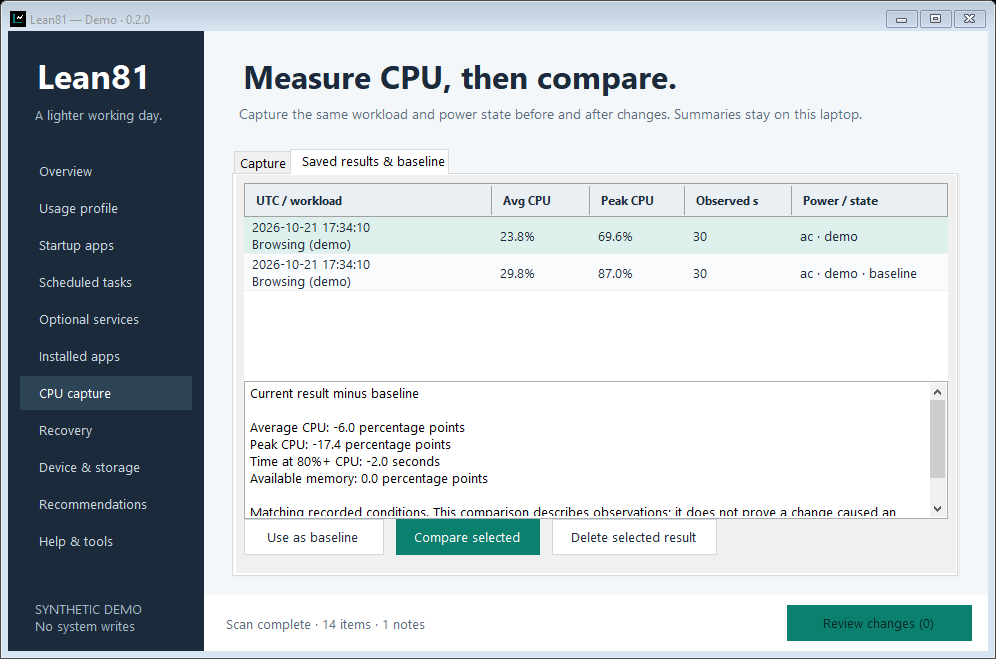
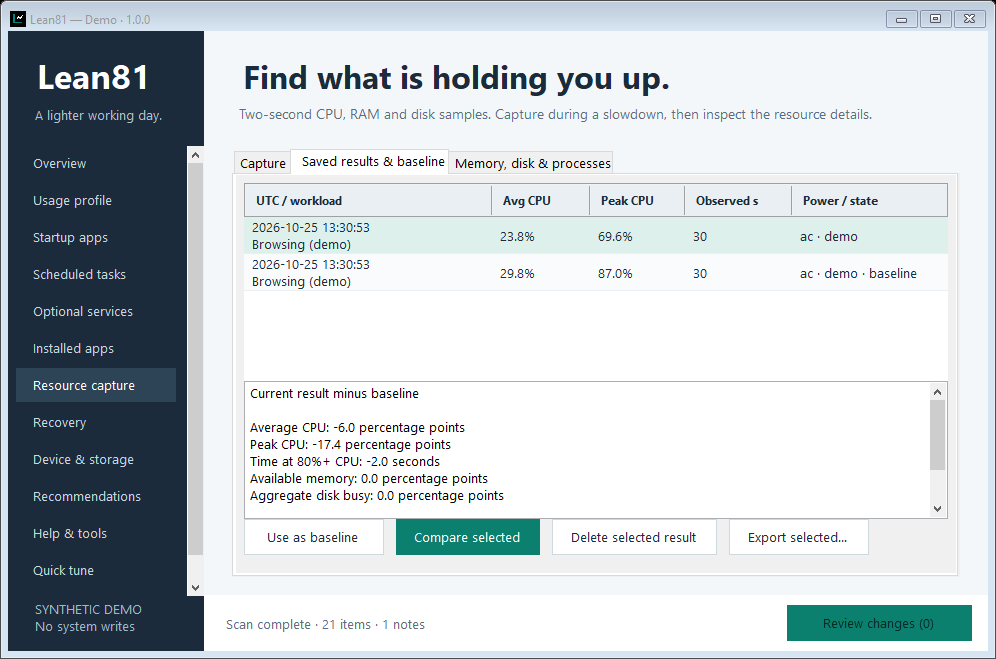
Verify x86 resource capture, preserve native counter units and refresh reviewed screenshots

diff --git a/tests/Tests.cs b/tests/Tests.cs
@@ -143,7 +143,7 @@ static partial class Tests
             Test("native journal ACL and validated listing", () => Assert(journals.List().Count >= 2));
             Test("native journal traversal rejected", () => Throws(() => journals.Load("..\\x")));
             Test("native recovery listing isolates other user scopes", () => Assert(new JournalStore(Product.Hash("different user scope")).List().Count == 0));
-            Test("native CPU capture has real bounded samples", () => { var r = CpuCapture.Run(4, CancellationToken.None, null); Assert(!r.Synthetic && r.Error == null && r.Samples.Count >= 2 && r.LogicalCpus > 0); Assert(r.Samples.All(s => Convert.ToDouble(s.metrics["cpu_pct"]) >= 0 && Convert.ToDouble(s.metrics["cpu_pct"]) <= 100 && s.processes.Count <= 20)); Assert(r.Samples.All(s => ResourceAnalysis.Number(s.metrics, "commit_pct", 100).HasValue && ResourceAnalysis.Number(s.metrics, "kernel_nonpaged_bytes").HasValue && s.metrics.ContainsKey("disk_busy_pct"))); Assert(r.Samples.SelectMany(s => s.processes).Any(p => p.private_bytes.HasValue && p.io_bytes_per_sec.HasValue)); });
+            Test("native CPU capture has real bounded samples", () => { var r = CpuCapture.Run(4, CancellationToken.None, null); Assert(!r.Synthetic && r.Error == null && r.Samples.Count >= 2 && r.LogicalCpus > 0); Assert(r.Samples.All(s => Convert.ToDouble(s.metrics["cpu_pct"]) >= 0 && Convert.ToDouble(s.metrics["cpu_pct"]) <= 100 && s.processes.Count <= 20)); Assert(r.Samples.All(s => ResourceAnalysis.Number(s.metrics, "commit_pct", 100).HasValue && ResourceAnalysis.Number(s.metrics, "kernel_nonpaged_bytes").HasValue && s.metrics.ContainsKey("disk_busy_pct"))); Assert(r.Samples.SelectMany(s => s.processes).Any(p => p.private_bytes.HasValue && p.io_bytes_per_sec.HasValue)); Assert(r.Samples.Any(s => ResourceAnalysis.Number(s.metrics, "disk_busy_pct", 100).HasValue), "Expected installed PhysicalDisk counters on the Windows CI image"); });
             Test("native desktop settings are inspection only during fixtures", () => { foreach (var option in DesktopSettings.Options) { var s = b.Read(new ItemState { Kind = "setting", Scope = "user", Target = option.Id }); Assert(s.Kind == "setting" && s.Scope == "user" && s.Target == option.Id); } });
             Test("native device snapshot reads memory, uptime and fixed-drive capacity", () => { var d = DeviceSnapshot.Read(); Assert(d.TotalMemory > 0 && d.AvailableMemory <= d.TotalMemory && d.LogicalCpus > 0 && d.UptimeMilliseconds > 0 && d.Disks.Count > 0 && d.Disks.All(x => x.FreeBytes <= x.TotalBytes)); });
             Test("native optional-service inventory is protected by default", () => { var report = b.Scan(new UsageProfile()); Assert(report.Items.Any(x => x.Kind == "service"), "expected at least one installed optional service on the Windows runner"); Assert(report.Items.Where(x => x.Kind == "service").All(x => !x.CanChange && x.Before.Definition.Length == 64)); });
@@ -160,7 +160,8 @@ static partial class Tests
     }
     [STAThread] static int Main(string[] args)
     {
-        MainCore(); FeatureTests(); ResourceTests(); if (args.Contains("--native")) Test("Windows native fixture suite", Native);
+        if (args.Contains("--resource-probe")) Test("x86 native resource layout and bounded capture", NativeResourceProbe);
+        else { MainCore(); FeatureTests(); ResourceTests(); if (args.Contains("--native")) Test("Windows native fixture suite", Native); }
         Console.WriteLine(passed + " passed, " + failed + " failed"); return failed == 0 ? 0 : 1;
     }
 }

diff --git a/src/Lean81/Program.cs b/src/Lean81/Program.cs
@@ -46,7 +46,7 @@ namespace Lean81
                                 if (page < count) { form.SmokePage(page); form.Refresh(); form.ValidateSmokeLayout(); form.SaveScreenshot(Path.Combine(output, "page-" + page + ".png")); page++; }
                                 else if (page < count * 2) { form.ClientSize = new System.Drawing.Size(980, 620); form.SmokePage(page - count); form.Refresh(); form.ValidateSmokeLayout(); form.SaveScreenshot(Path.Combine(output, "small-" + (page - count) + ".png")); page++; }
                                 else if (page == count * 2) { timer.Stop(); form.SmokeReviewScreenshot(Path.Combine(output, "review-dialog.png")); form.SmokeSetupScreenshot(Path.Combine(output, "quick-setup.png")); form.SmokeComparisonScreenshot(Path.Combine(output, "comparison.png")); form.SmokeResourcesScreenshot(Path.Combine(output, "resources.png")); form.SmokeReport(output); form.SmokeInteractions(); form.SmokeTuningInteractions(); page++; timer.Start(); }
-                                else { timer.Stop(); File.WriteAllText(Path.Combine(output, "gui-smoke.txt"), "PASS: " + count + " pages at two sizes, cancelled review/setup/report dialogs, saved-result comparison, generated report variants, checkbox/filter/protection interactions and demo tool launches."); form.Close(); }
+                                else { timer.Stop(); File.WriteAllText(Path.Combine(output, "gui-smoke.txt"), "PASS: " + count + " pages at two sizes, cancelled review/setup/report dialogs, saved-result comparison, generated report variants, checkbox/filter/protection interactions, quick-tune preset isolation, desktop selection, resource sorting, missing-data chart rendering and demo tool launches."); form.Close(); }
                             }
                             catch (Exception ex) { smokeError = ex; timer.Stop(); form.Close(); }
                         };

diff --git a/tests/ResourceTests.cs b/tests/ResourceTests.cs
@@ -6,6 +6,16 @@ using Lean81;
 
 static partial class Tests
 {
+    static void NativeResourceProbe()
+    {
+        Assert(Environment.GetEnvironmentVariable("LEAN81_NATIVE_FIXTURES") == "ephemeral-ci" && Environment.OSVersion.Platform == PlatformID.Win32NT && IntPtr.Size == 4, "resource ABI probe requires explicitly opted-in x86 Windows CI");
+        var capture = CpuCapture.Run(4, System.Threading.CancellationToken.None, null);
+        Assert(capture.Error == null && capture.Samples.Count >= 2 && capture.MemoryBytes > 0);
+        Assert(capture.Samples.All(s => ResourceAnalysis.Number(s.metrics, "commit_bytes").HasValue && ResourceAnalysis.Number(s.metrics, "commit_limit_bytes").HasValue && ResourceAnalysis.Number(s.metrics, "kernel_nonpaged_bytes").HasValue));
+        Assert(capture.Samples.All(s => s.processes.Count <= 20 && (!s.metrics.ContainsKey("disk_busy_pct") || s.metrics["disk_busy_pct"] == null || ResourceAnalysis.Number(s.metrics, "disk_busy_pct", 100).HasValue)));
+        Assert(capture.Samples.SelectMany(s => s.processes).Any(p => p.io_bytes_per_sec.HasValue && p.private_bytes.HasValue));
+        Assert(capture.Samples.Any(s => ResourceAnalysis.Number(s.metrics, "disk_busy_pct", 100).HasValue), "Expected installed PhysicalDisk counters on the Windows CI image");
+    }
     static ItemState Desktop(bool present = false, int value = 1)
     { return new ItemState { Kind = "setting", Scope = "user", Target = "taskbar-animation", Exists = true, Enabled = !present || value != 0, ValueKind = present ? 4 : 0, Value = present ? value.ToString(System.Globalization.CultureInfo.InvariantCulture) : null }; }
     static void ResourceTests()

diff --git a/src/Lean81/ResourceDiagnostics.cs b/src/Lean81/ResourceDiagnostics.cs
@@ -47,7 +47,8 @@ namespace Lean81
             {
                 string name = Paths[i, 0]; IntPtr counter; uint type; CounterValue value;
                 object number = null;
-                if (collected && counters.TryGetValue(name, out counter) && PdhGetFormattedCounterValue(counter, 0x200 | 0x8000, out type, out value) == 0
+                // DOUBLE | NOSCALE | NOCAP100: preserve bytes/s and pages/s units.
+                if (collected && counters.TryGetValue(name, out counter) && PdhGetFormattedCounterValue(counter, 0x200 | 0x1000 | 0x8000, out type, out value) == 0
                     && value.Status <= 1 && Product.Finite(value.Value) && value.Value >= 0 && (name != "disk_idle_pct" || value.Value <= 100)) number = value.Value;
                 metrics[name == "disk_idle_pct" ? "disk_busy_pct" : name] = name == "disk_idle_pct" && number != null ? (object)(100 - (double)number) : number;
             }

diff --git a/docs/RELEASE-1.0.0.md b/docs/RELEASE-1.0.0.md
@@ -14,6 +14,6 @@ Changes still require a review, protected backup and current-state checks. Recov
 
 Process I/O includes network/device operations and is not per-process disk utilization. Disk readings are aggregate across disks. Missing counters remain unknown. Two-second sampling can miss short spikes. No particular speed improvement is guaranteed.
 
-**Unsigned release targeting Windows 8.1 / .NET Framework 4.5.1.** Automated compilation, isolated policy/transaction/resource tests, disposable native Windows fixtures, real resource capture, GUI smoke/screenshots and report/browser checks run on newer Windows. Physical Windows 8.1 testing remains pending. Desktop-setting writes are tested in memory; native fixtures inspect those settings without changing them.
+**Unsigned release targeting Windows 8.1 / .NET Framework 4.5.1.** Automated compilation, isolated policy/transaction/resource tests, disposable native Windows fixtures, real resource capture and a read-only x86 resource-layout probe, GUI smoke/screenshots and report/browser checks run on newer Windows. Physical Windows 8.1 testing remains pending. Desktop-setting writes are tested in memory; native fixtures inspect those settings without changing them.
 
 EXE, portable ZIP, source ZIP and SHA256 checksums are attached. Read the included quick start, feature guide, compatibility, privacy and recovery notes. Public owner: **HamWebDevs**. MIT licensed.

diff --git a/README.md b/README.md
@@ -50,6 +50,6 @@ On Windows with .NET Framework's C# compiler, PowerShell and Git:
 
 The script downloads pinned Microsoft 4.5.1 reference assemblies at build time, verifies their hash, compiles C# 5 and creates the portable EXE/ZIP, source ZIP and SHA256 checksums. No build dependencies are downloaded by the released app.
 
-CI also runs disposable native Run/task fixtures on an explicitly opted-in ephemeral Windows runner, real resource capture and device checks, GUI smoke/screenshot checks at two sizes, and browser/print verification of Windows-generated reports. Real installed services and existing scheduled tasks are never toggled by tests. Desktop-setting writes use isolated in-memory tests; native checks only inspect those values.
+CI also runs disposable native Run/task fixtures on an explicitly opted-in ephemeral Windows runner, real resource capture and a read-only x86 resource-layout probe and device checks, GUI smoke/screenshot checks at two sizes, and browser/print verification of Windows-generated reports. Real installed services and existing scheduled tasks are never toggled by tests. Desktop-setting writes use isolated in-memory tests; native checks only inspect those values.
 
 Public owner: **HamWebDevs**. MIT licensed. Read [AGENTS.md](AGENTS.md) and [CONTRIBUTING.md](CONTRIBUTING.md) before contributing.

diff --git a/docs/COMPATIBILITY.md b/docs/COMPATIBILITY.md
@@ -57,3 +57,5 @@ API references:
 - https://learn.microsoft.com/en-us/windows/win32/api/winbase/nf-winbase-getprocessiocounters
 
 Desktop Peek location reference: https://learn.microsoft.com/en-us/answers/questions/1282989/prevent-window-from-disapearing-when-hovering-anot
+
+The native CI suite additionally compiles an x86 resource probe and checks pointer-sized memory structures, process I/O and bounded capture in a 32-bit process. This runs on modern Windows and is not a Windows 8.1 hardware test.
